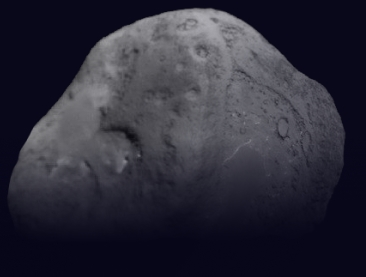
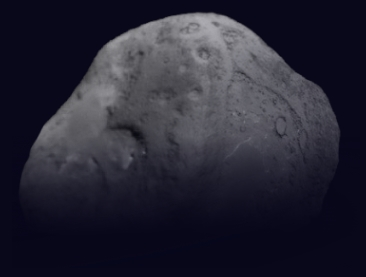
change img

diff --git a/src/htmlParts/comet.html b/src/htmlParts/comet.html
@@ -1,6 +1,6 @@
 <section class="comet planet-block">
   <div class="comet__block">
-    <img data-src="./images/comet4.png" alt="" class="comet__img lazyload parallax">
+    <img data-src="./images/comet3.jpg" alt="" class="comet__img lazyload parallax">
   </div>
 
   <div class="comet__content">
